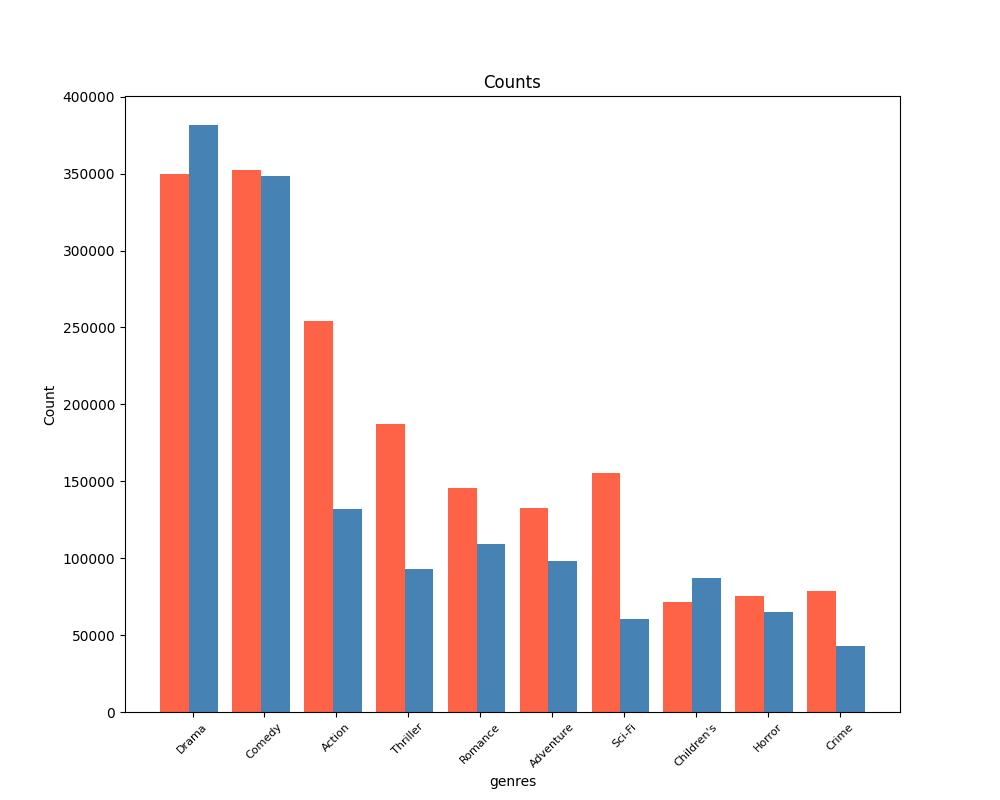
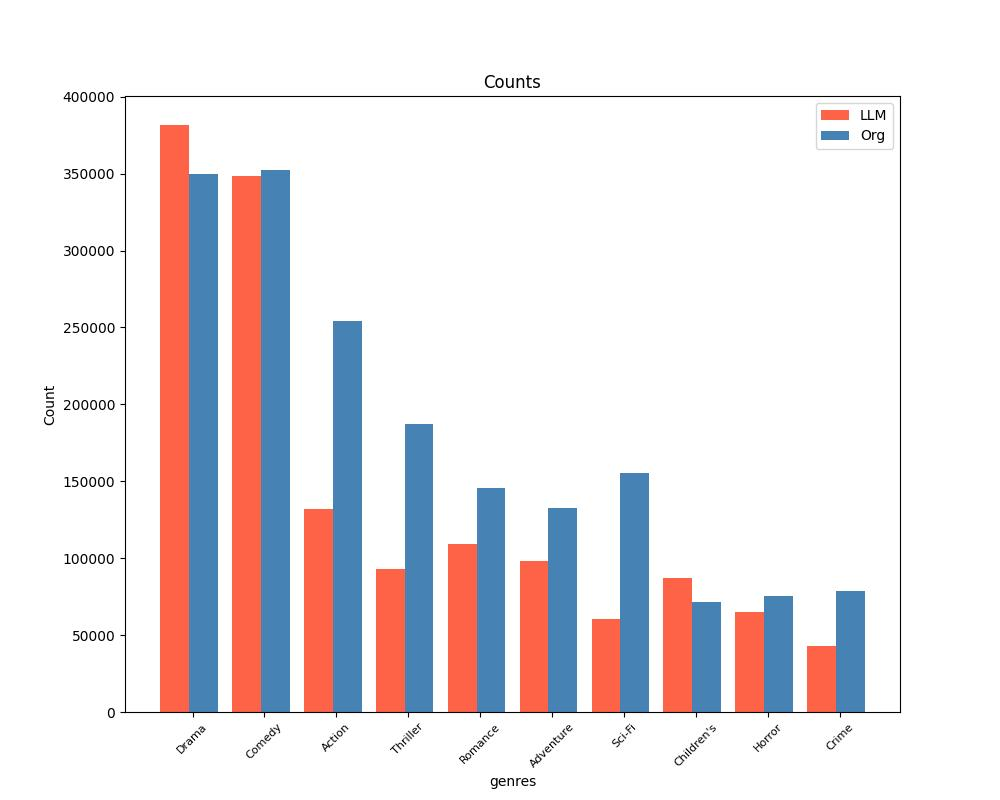
update

Changed region(s): [[0.279, 0.375, 0.868, 0.8125], [0.806, 0.125, 0.899, 0.1875], [0.155, 0.1562, 0.279, 0.2188]]

diff --git a/data_stat.py b/data_stat.py
@@ -4,7 +4,7 @@ from collections import Counter
 import matplotlib.pyplot as plt
 
 arch = 'narm'
-split=False
+split= False
 
 with open('data/preprocessed/ml-1m_text.pkl', 'rb') as f:
     text = pickle.load(f)
@@ -103,6 +103,7 @@ def fig():
     plt.title('Counts')
     plt.xlabel('genres')
     plt.ylabel('Count')
+    plt.legend() 
     plt.savefig(f'pics/data_top10_{arch}_split={split}.jpg')
     
 def cases():
